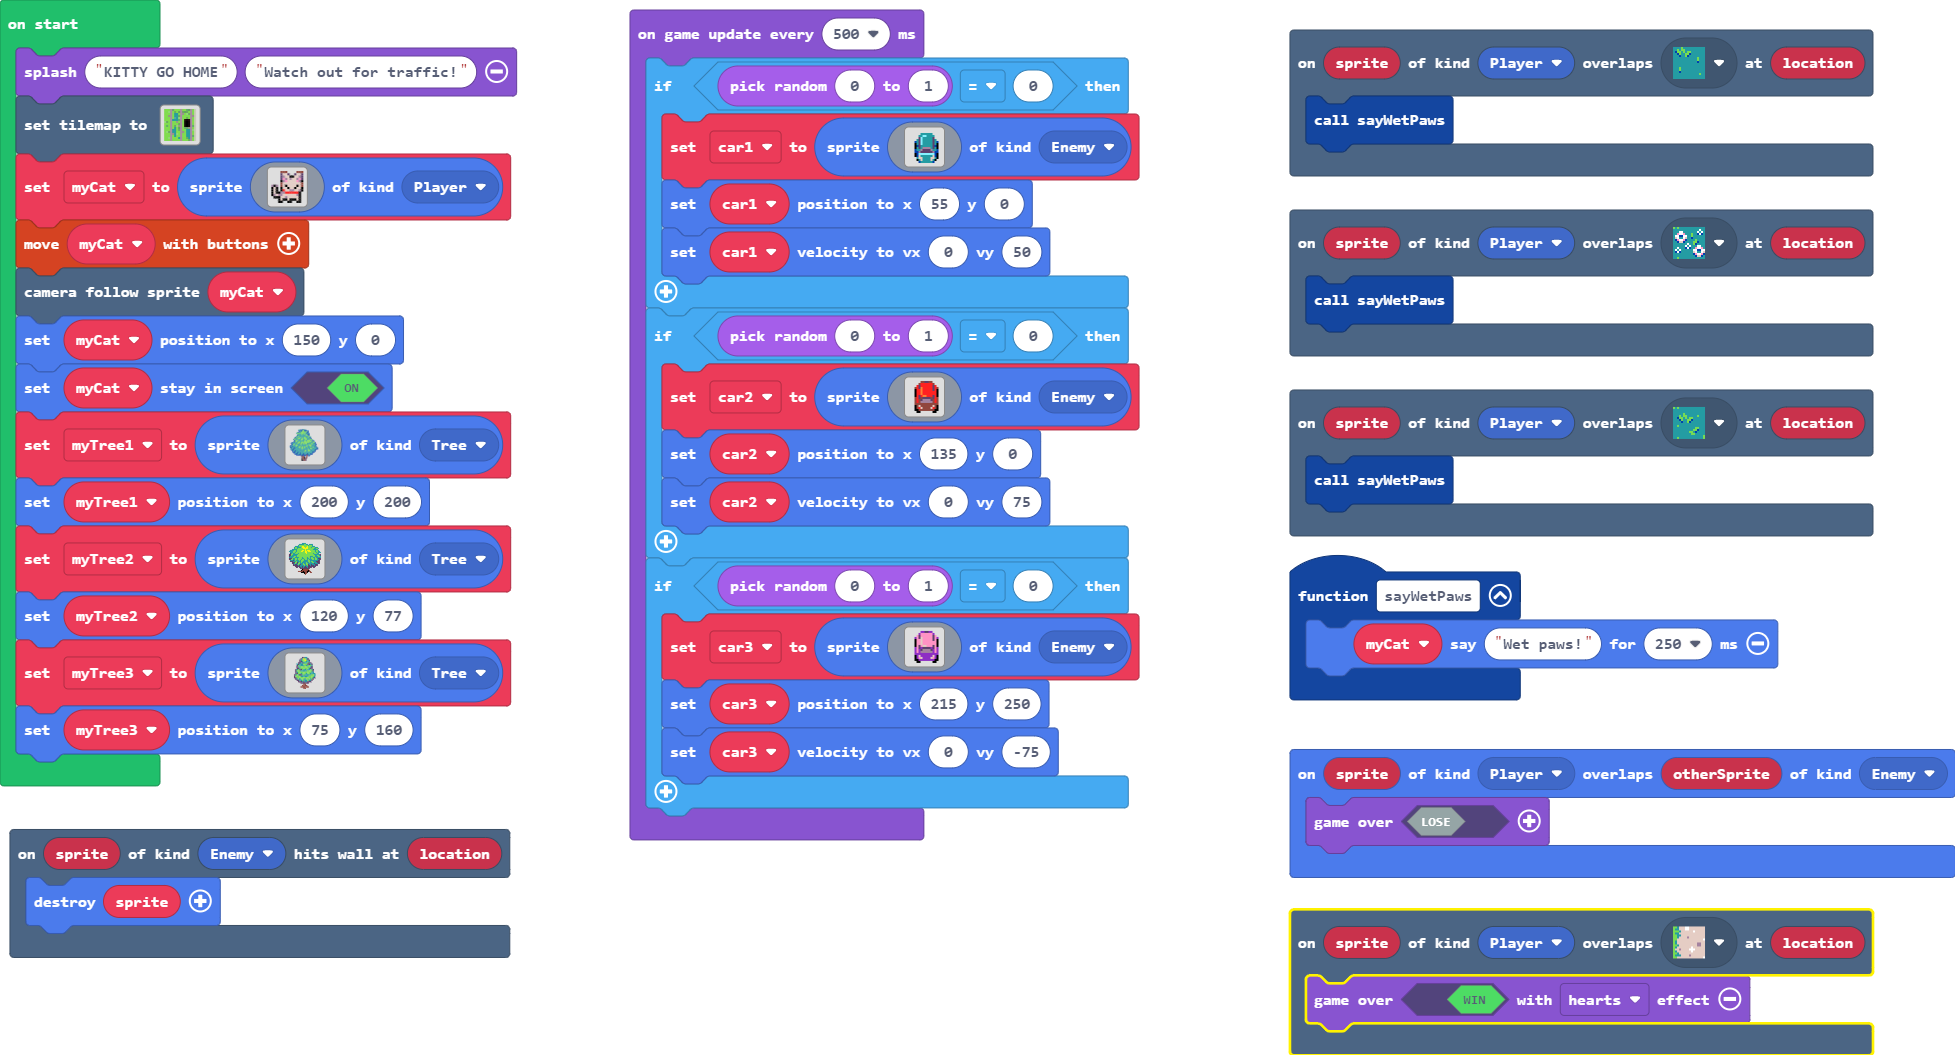
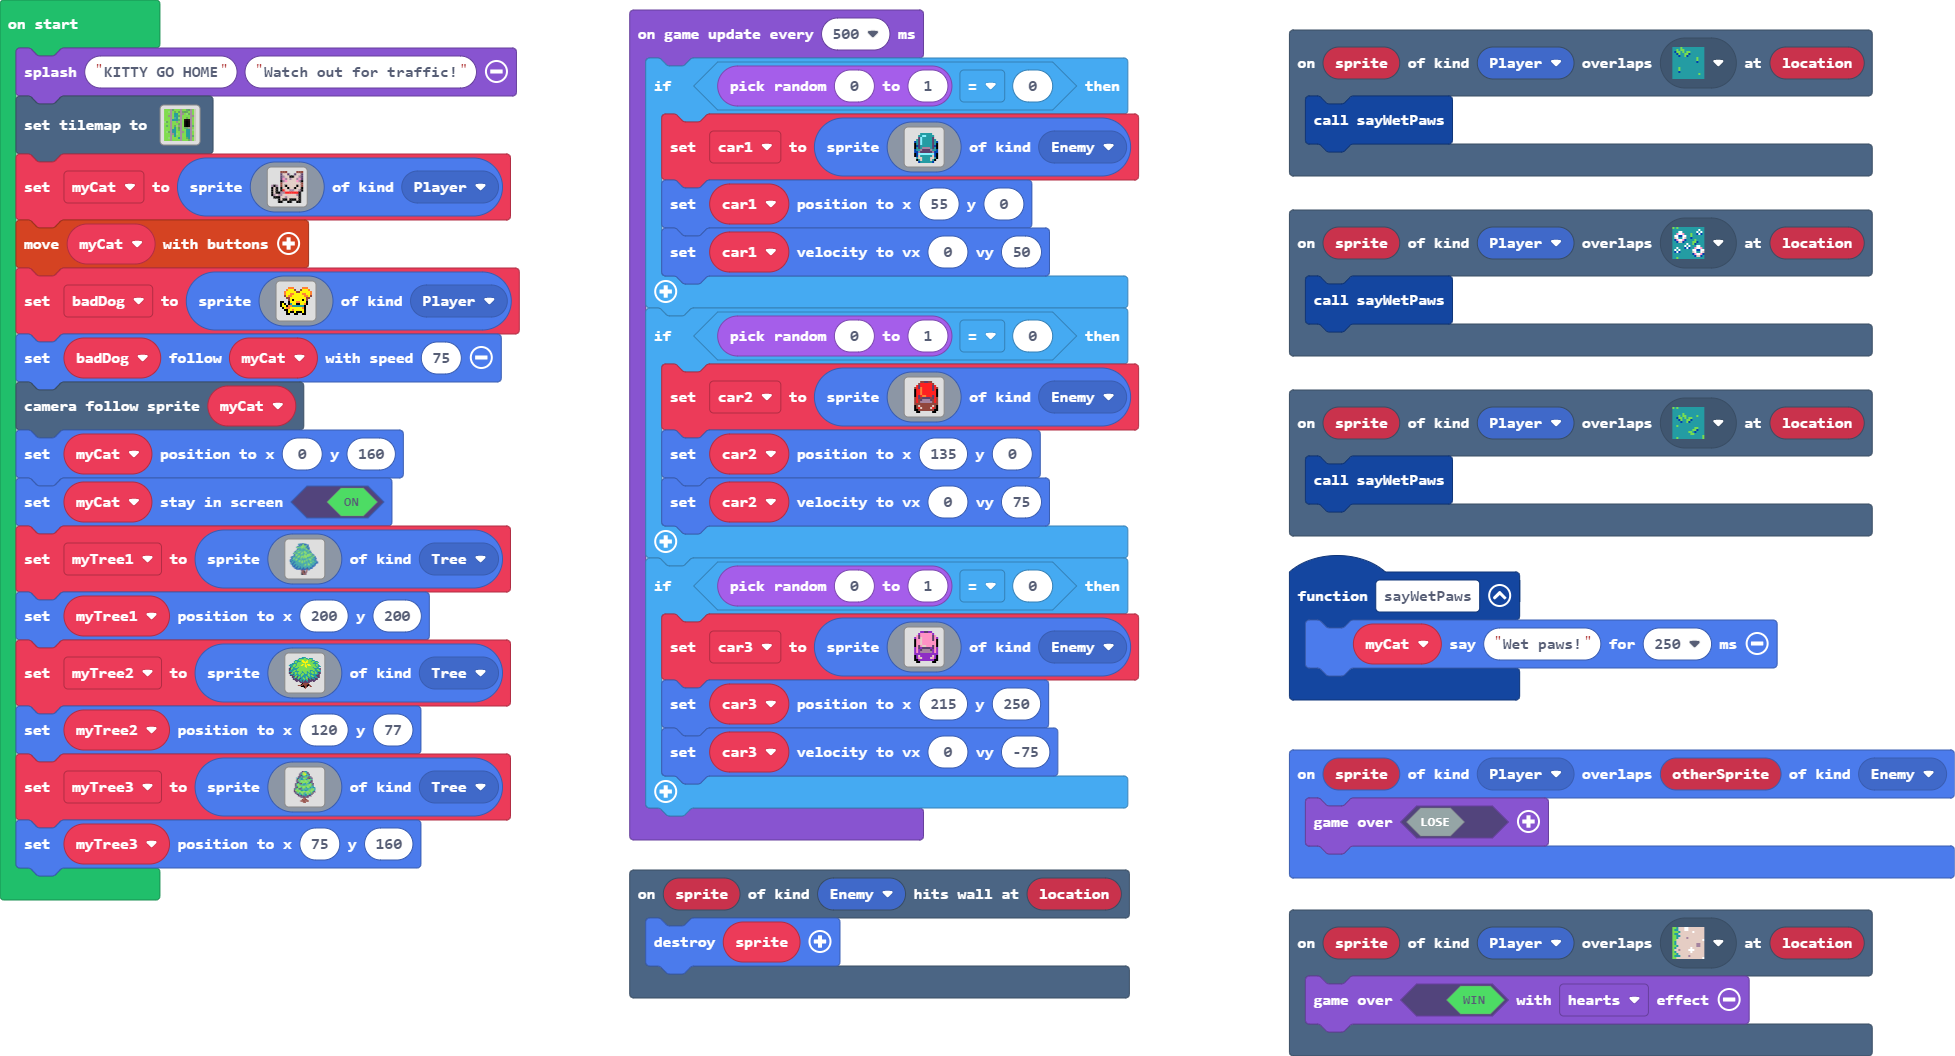
fixed dog following speed

diff --git a/main.ts b/main.ts
@@ -45,8 +45,25 @@ myCat = sprites.create(img`
     . . . f f . . f f . . f f . 
     `, SpriteKind.Player)
 controller.moveSprite(myCat)
+let badDog = sprites.create(img`
+    . . . . 4 4 4 . . . . 4 4 4 . . 
+    . . . 4 5 5 5 e . . e 5 5 5 4 . 
+    . . 4 5 5 5 5 5 e e 5 5 5 5 5 4 
+    . . 4 5 5 4 4 5 5 5 5 4 4 5 5 4 
+    . . e 5 4 4 5 5 5 5 5 5 4 4 5 e 
+    . . . e e 5 5 5 5 5 5 5 5 e e . 
+    . . . . e 5 f 5 5 5 5 f 5 e . . 
+    f f . . f 5 5 5 4 4 5 5 5 f . . 
+    f 5 f . f 6 5 5 f f 5 5 4 f . . 
+    f 5 5 f 4 4 6 6 6 6 6 6 f . . . 
+    . f 5 4 4 5 5 5 5 5 5 4 f . . . 
+    . . f f 5 5 4 5 5 5 5 5 f . . . 
+    . . . f 5 f f 5 f f f 5 f . . . 
+    . . . f f . . f f . . f f . . . 
+    `, SpriteKind.Player)
+badDog.follow(myCat, 75)
 scene.cameraFollowSprite(myCat)
-myCat.setPosition(150, 0)
+myCat.setPosition(0, 160)
 myCat.setStayInScreen(true)
 let myTree1 = sprites.create(img`
     ................86..................

diff --git a/images.g.ts b/images.g.ts
@@ -176,6 +176,22 @@ cc7777777777776c
 . . . f f a a a a a a a a f f . 
 . . . . f f . . . . . . f f . . 
 `;
+            case "image8":return img`
+. . . . 4 4 4 . . . . 4 4 4 . . 
+. . . 4 5 5 5 e . . e 5 5 5 4 . 
+. . 4 5 5 5 5 5 e e 5 5 5 5 5 4 
+. . 4 5 5 4 4 5 5 5 5 4 4 5 5 4 
+. . e 5 4 4 5 5 5 5 5 5 4 4 5 e 
+. . . e e 5 5 5 5 5 5 5 5 e e . 
+. . . . e 5 f 5 5 5 5 f 5 e . . 
+f f . . f 5 5 5 4 4 5 5 5 f . . 
+f 5 f . f 6 5 5 f f 5 5 4 f . . 
+f 5 5 f 4 4 6 6 6 6 6 6 f . . . 
+. f 5 4 4 5 5 5 5 5 5 4 f . . . 
+. . f f 5 5 4 5 5 5 5 5 f . . . 
+. . . f 5 f f 5 f f f 5 f . . . 
+. . . f f . . f f . . f f . . . 
+`;
         }
         return null;
     })
